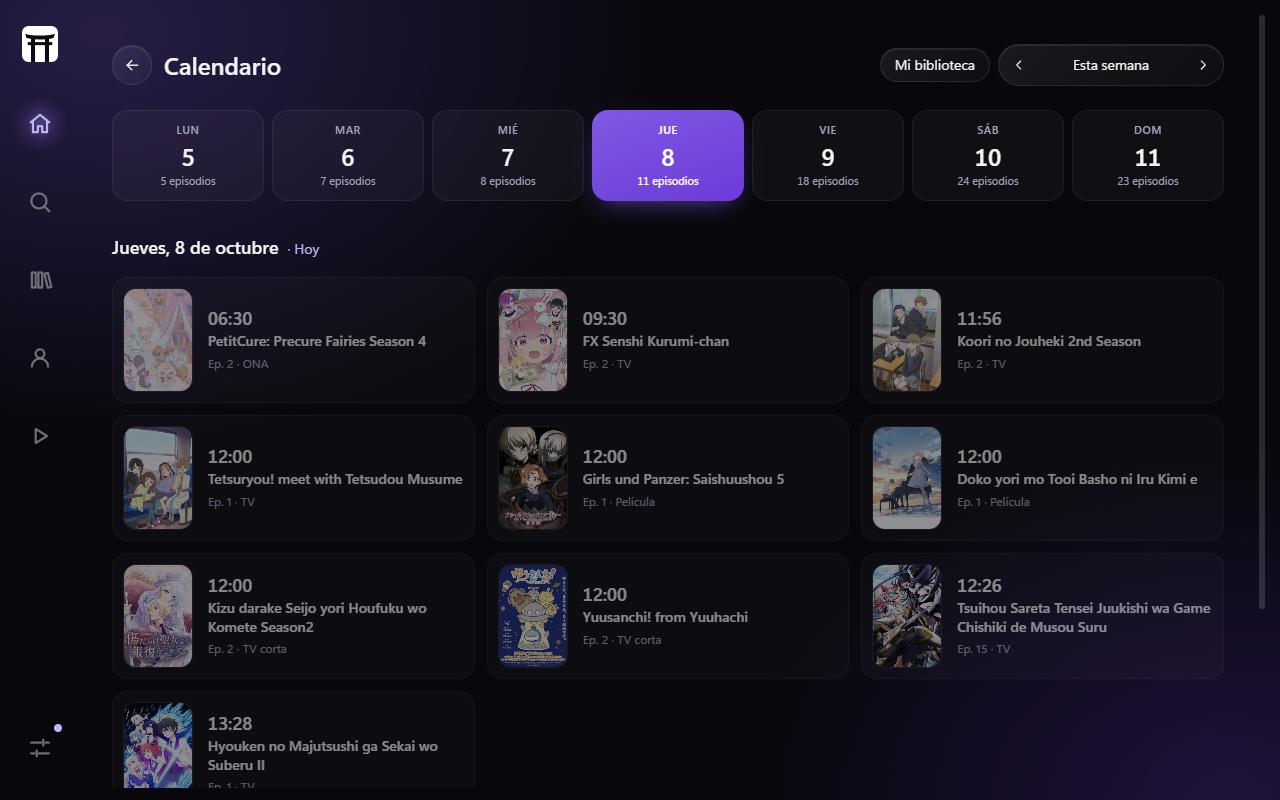
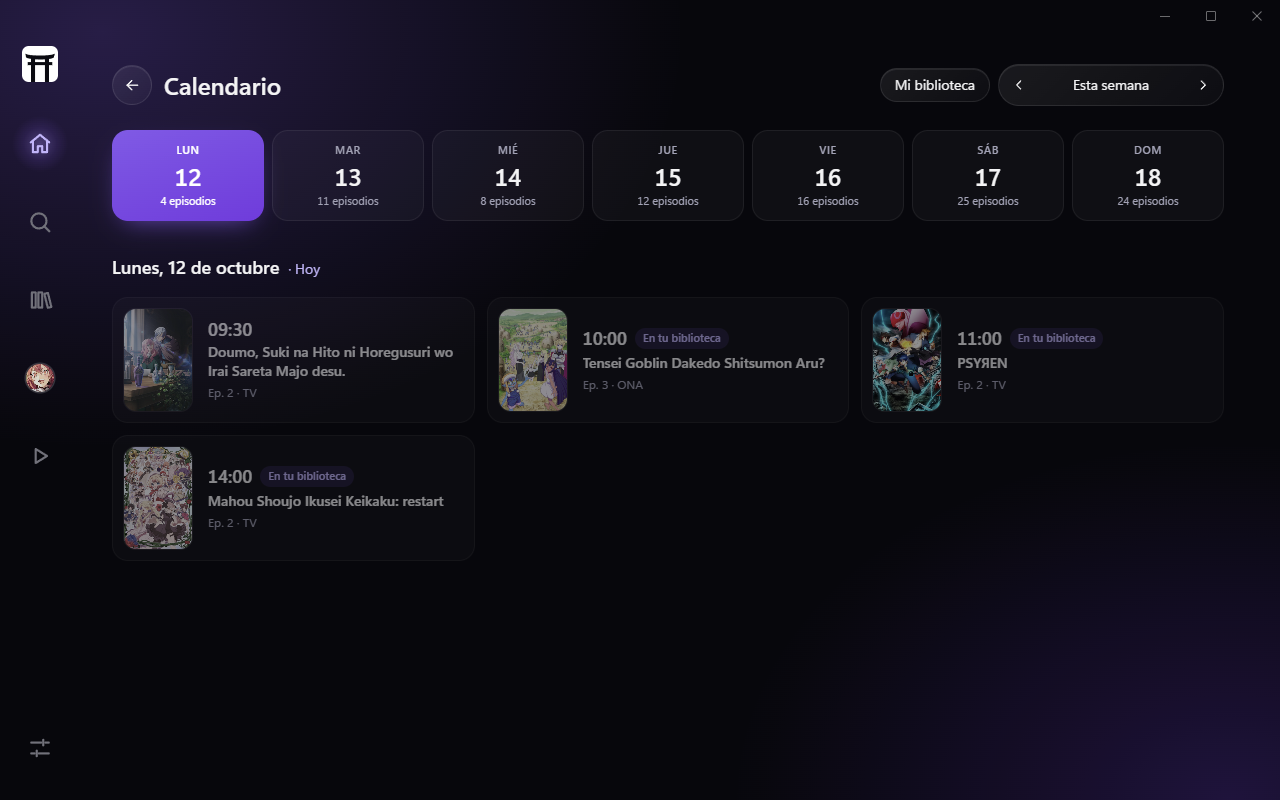
README: movies and shows, characters, new screenshots

diff --git a/README.md b/README.md
@@ -5,7 +5,7 @@
 <h1 align="center">Torii</h1>
 
 <p align="center">
-  App gratuita para Windows para llevar tu anime: catálogo con fichas y episodios, tu biblioteca sincronizada con AniList o MyAnimeList, y un reproductor propio.
+  App gratuita para Windows para llevar tu anime, tus películas y tus series: catálogo con fichas, episodios y personajes, tu biblioteca sincronizada con AniList o MyAnimeList, y un reproductor propio.
 </p>
 
 <p align="center">
@@ -16,15 +16,32 @@
 
 Torii no trae contenido ni fuentes: reproduce tus archivos o lo que agregues vos.
 
+## Qué tiene
+
+- **Inicio** con Seguir viendo, los episodios nuevos de lo que ves, el Top 10 en tendencia y la temporada en emisión. Anime por un lado; películas y series por otro.
+- **Fichas** con episodios, personajes, relacionados, recomendaciones, tráiler y dónde verla en servicios legales.
+- **Buscar** por nombre, género, año, temporada, formato y estado.
+- **Calendario** de la semana, con lo de tu biblioteca marcado.
+- **Biblioteca** con estados, puntaje y carpetas, sincronizada con AniList o MyAnimeList, y **Amigos** para ver sus listas.
+- **Reproductor** con subtítulos a tu estilo, audio a elección, saltar opening y ending, y el siguiente episodio solo.
+
 ## Capturas
 
-| Ficha de cada serie | Calendario |
+| Anime | Películas y series |
 | --- | --- |
-| ![Ficha](images/ficha.png) | ![Calendario](images/calendario.png) |
+| ![Ficha de anime](images/ficha.png) | ![Inicio de películas y series](images/peliculas.png) |
 
-| Mi lista, con carpetas |
-| --- |
-| ![Mi lista](images/mi-lista.png) |
+| Episodios | Personajes |
+| --- | --- |
+| ![Episodios](images/episodios.png) | ![Personajes](images/personajes.png) |
+
+| Ficha de una serie | Buscar |
+| --- | --- |
+| ![Ficha de una serie](images/titulo.png) | ![Buscar](images/buscar.png) |
+
+| Biblioteca | Calendario |
+| --- | --- |
+| ![Biblioteca](images/biblioteca.png) | ![Calendario](images/calendario.png) |
 
 ## Descargar
 
@@ -38,10 +55,12 @@ Funciona en Windows 10 y 11 de 64 bits, en español o en inglés.
 2. Si aparece "Windows protegió su PC" (el instalador todavía no está firmado), tocá **Más información** y después **Ejecutar de todas formas**.
 3. Seguí los pasos. Si a tu Windows le falta WebView2, el instalador lo baja.
 
-Torii se actualiza sola: cuando hay una versión nueva, te avisa.
+Torii se actualiza sola: cuando hay una versión nueva, te avisa, y con un clic se instala y vuelve a abrir.
 
 ## Legal
 
 Los términos de uso y la política de privacidad están en la app, en Ajustes → Información.
+
+El catálogo de anime viene de AniList, y el de películas y series de TMDB. Este producto usa la API de TMDB, pero no está avalado ni certificado por TMDB.
 
 Contacto: toriiappzz@gmail.com
